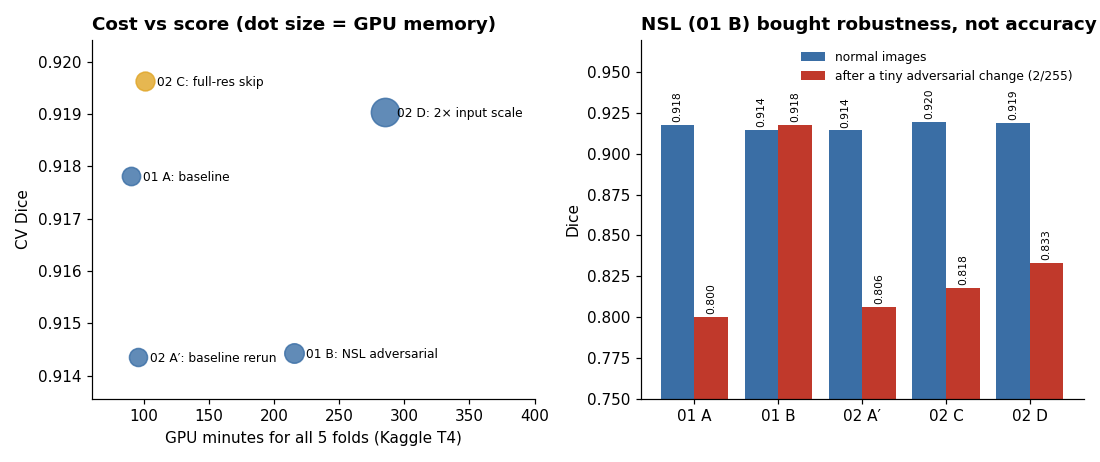
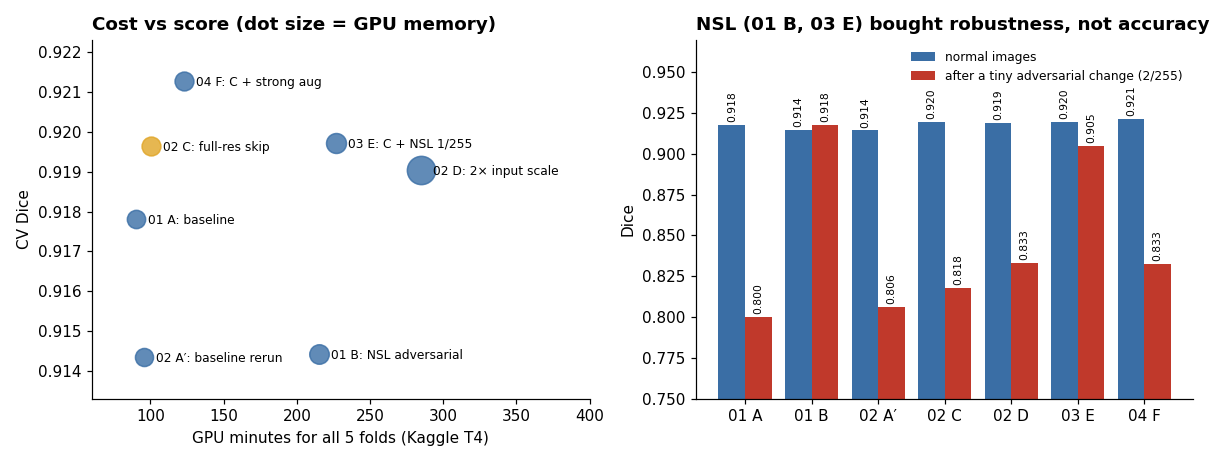
Redraw overview figures with specs 03 and 04

diff --git a/reports/make_figures.py b/reports/make_figures.py
@@ -28,6 +28,8 @@ LABELS = {  # slug -> short name for plots
     "s02-base": "02 A′\nbaseline rerun",
     "s02-hires": "02 C\nfull-res skip",
     "s02-scale2": "02 D\n2× input scale",
+    "s03-hires-nsl1": "03 E\nC + NSL 1/255",
+    "s04-hires-aug": "04 F\nC + strong aug",
 }
 TYPES = {  # image_type key -> plain name
     "dark-gray/small": "Fluorescence, small",
@@ -46,12 +48,12 @@ def load_runs():
         m = json.loads((ROOT / "runs" / row["run_id"] / "metrics.json").read_text())
         slug = row["run_id"].split("-", 2)[2]
         runs.append(dict(row=row, m=m, slug=slug, label=LABELS.get(slug, slug)))
-    return runs
+    return sorted(runs, key=lambda r: r["label"])
 
 
 def progress(runs):
     best = max(runs, key=lambda r: r["m"]["cv"].get("tta", r["m"]["cv"])["dice"])
-    fig, ax = plt.subplots(figsize=(9, 5))
+    fig, ax = plt.subplots(figsize=(11, 5))
     x = np.arange(len(runs))
     for i, r in enumerate(runs):
         cv = r["m"]["cv"]
@@ -84,8 +86,9 @@ def progress(runs):
 
 def folds(runs):
     fig, ax = plt.subplots(figsize=(9, 4.5))
-    colours = [GRAY, "#8e6bb8", BLUE, GOLD, GREEN]
-    for r, c in zip(runs, colours):
+    shown = {"s02-base": GRAY, "s02-hires": GOLD, "s03-hires-nsl1": "#8e6bb8", "s04-hires-aug": GREEN}
+    for r in [r for r in runs if r["slug"] in shown]:
+        c = shown[r["slug"]]
         f = r["m"]["folds"]
         ax.plot([d["fold"] for d in f], [d["dice"] for d in f], "o-", color=c, lw=2, label=r["label"].replace("\n", ": "))
         early = [d for d in f if d["epochs_run"] < 30]
@@ -95,7 +98,7 @@ def folds(runs):
     ax.text(4.2, TARGET + 0.0005, "target", color=RED, va="bottom", ha="right")
     ax.set_xticks(range(5), [f"fold {k}\n(~120 images)" for k in range(5)])
     ax.set_ylabel("Dice on the held-out fold")
-    ax.set_title("Every fold, every run: fold 3 is easiest, fold 4 hardest", loc="left", weight="bold")
+    ax.set_title("Every fold: fold 3 is easiest, fold 4 hardest", loc="left", weight="bold")
     ax.legend(frameon=False, fontsize=8, loc="upper left", ncol=2)
     ax.set_ylim(0.90, 0.945)
     fig.tight_layout()
@@ -106,10 +109,10 @@ def by_type(runs, splits):
     counts = {t: 0 for t in TYPES}
     for t in splits["image_type"].values():
         counts[t] += 1
-    shown = [r for r in runs if r["slug"] in ("s02-base", "s02-hires", "s02-scale2")]
+    shown = [r for r in runs if r["slug"] in ("s02-hires", "s03-hires-nsl1", "s04-hires-aug")]
     fig, ax = plt.subplots(figsize=(9, 4.5))
     w = 0.26
-    for j, (r, c) in enumerate(zip(shown, (BLUE, GOLD, GREEN))):
+    for j, (r, c) in enumerate(zip(shown, (GOLD, "#8e6bb8", GREEN))):
         vals = [r["m"]["dice_by_type"][t] for t in TYPES]
         bars = ax.bar(np.arange(len(TYPES)) + (j - 1) * w, vals, w, color=c, label=r["label"].replace("\n", ": "))
         for b, v in zip(bars, vals):
@@ -125,7 +128,7 @@ def by_type(runs, splits):
 
 
 def cost(runs):
-    fig, (a1, a2) = plt.subplots(1, 2, figsize=(10, 4.2))
+    fig, (a1, a2) = plt.subplots(1, 2, figsize=(11, 4.2))
     for r in runs:
         m = r["m"]
         a1.scatter(m["minutes"], m["cv"]["dice"], s=m["peak_vram_gb"] * 25, color=GOLD if r["slug"] == "s02-hires" else BLUE,
@@ -148,7 +151,7 @@ def cost(runs):
     a2.set_xticks(x, [r["label"].split("\n")[0] for r in runs])
     a2.set_ylim(0.75, 0.97)
     a2.set_ylabel("Dice")
-    a2.set_title("NSL (01 B) bought robustness, not accuracy", loc="left", weight="bold")
+    a2.set_title("NSL (01 B, 03 E) bought robustness, not accuracy", loc="left", weight="bold")
     a2.legend(frameon=False, fontsize=8, loc="upper right")
     fig.tight_layout()
     fig.savefig(OUT / "5-cost-and-robustness.png")

diff --git a/specs/04-hires-aug.md b/specs/04-hires-aug.md
@@ -8,7 +8,7 @@ Does stronger data augmentation raise per-image CV Dice of arm C, the spec 02 wi
 
 ## Why
 
-Arm C trains with random crops, scaling between 0.75 and 1.25, flips, 90° rotations and small brightness and contrast changes. The weakest image types are H&E (0.889) and grayscale brightfield (0.893). They are about 16% of the data, so each fold trains on only about 70 of them. Colour and stain changes give the model more varied examples of exactly those images. Warps, blur and noise add shape, focus and camera variation to all types.
+Arm C trains with random crops, scaling between 0.75 and 1.25, flips, 90° rotations and small brightness and contrast changes. The weakest image types are H&E (0.889) and grayscale brightfield (0.893). They are 124 of the 670 images (18%), so each fold trains on only about 80 of them. Colour and stain changes give the model more varied examples of exactly those images. Warps, blur and noise add shape, focus and camera variation to all types.
 
 This runs on arm C, not on spec 03's C + NSL, so it changes one thing against a finished baseline and can run while spec 03 is still going. If both win, a later run combines them.
 
